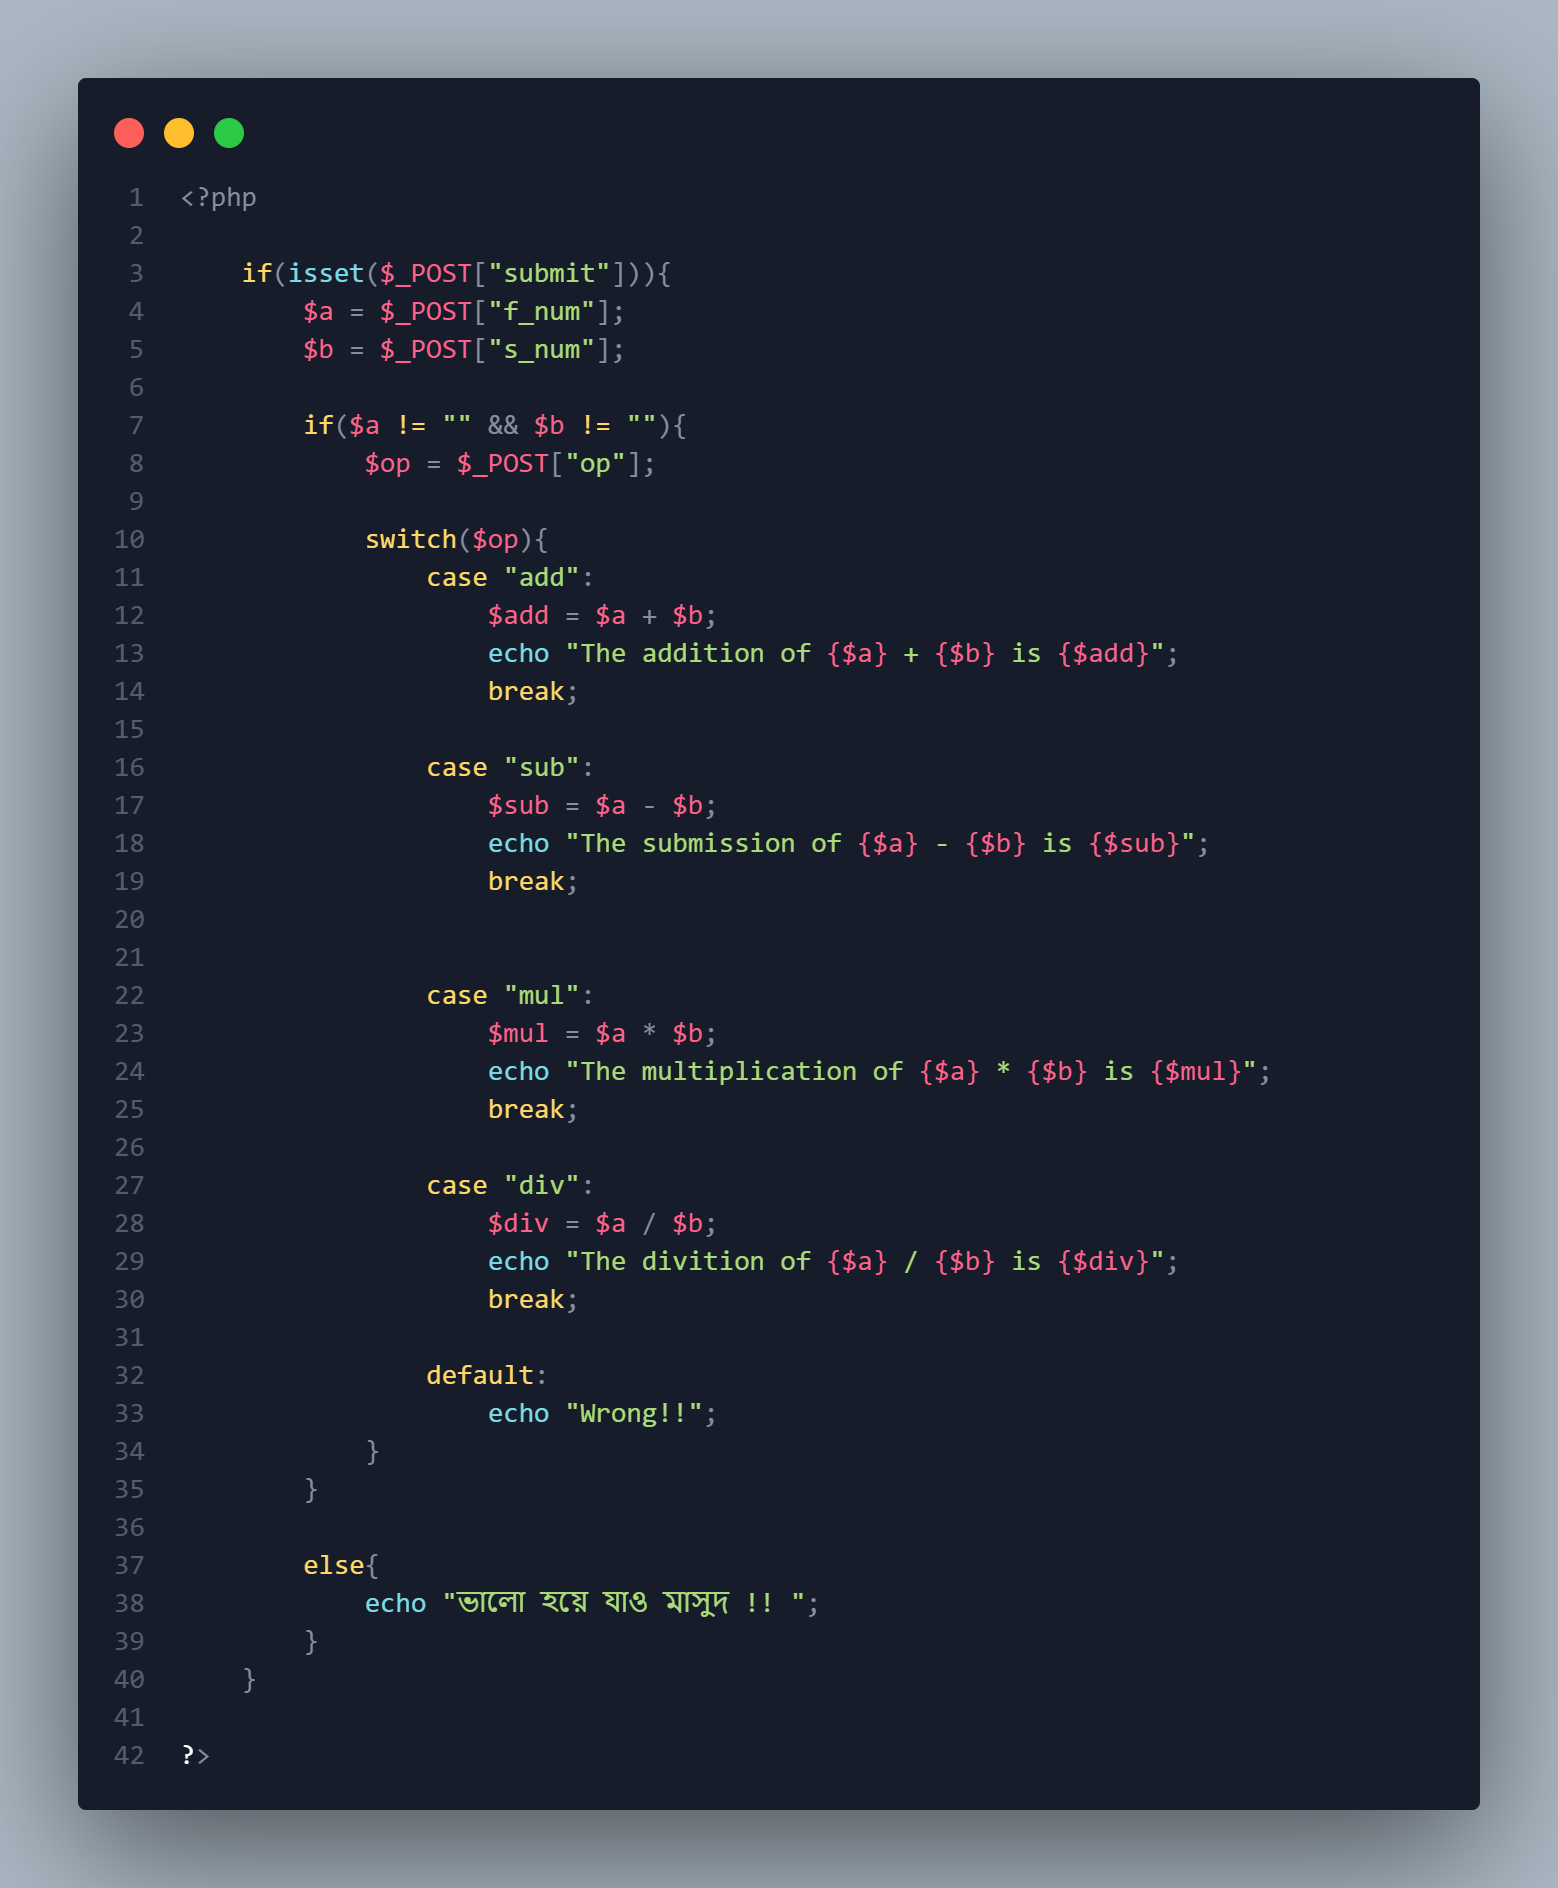
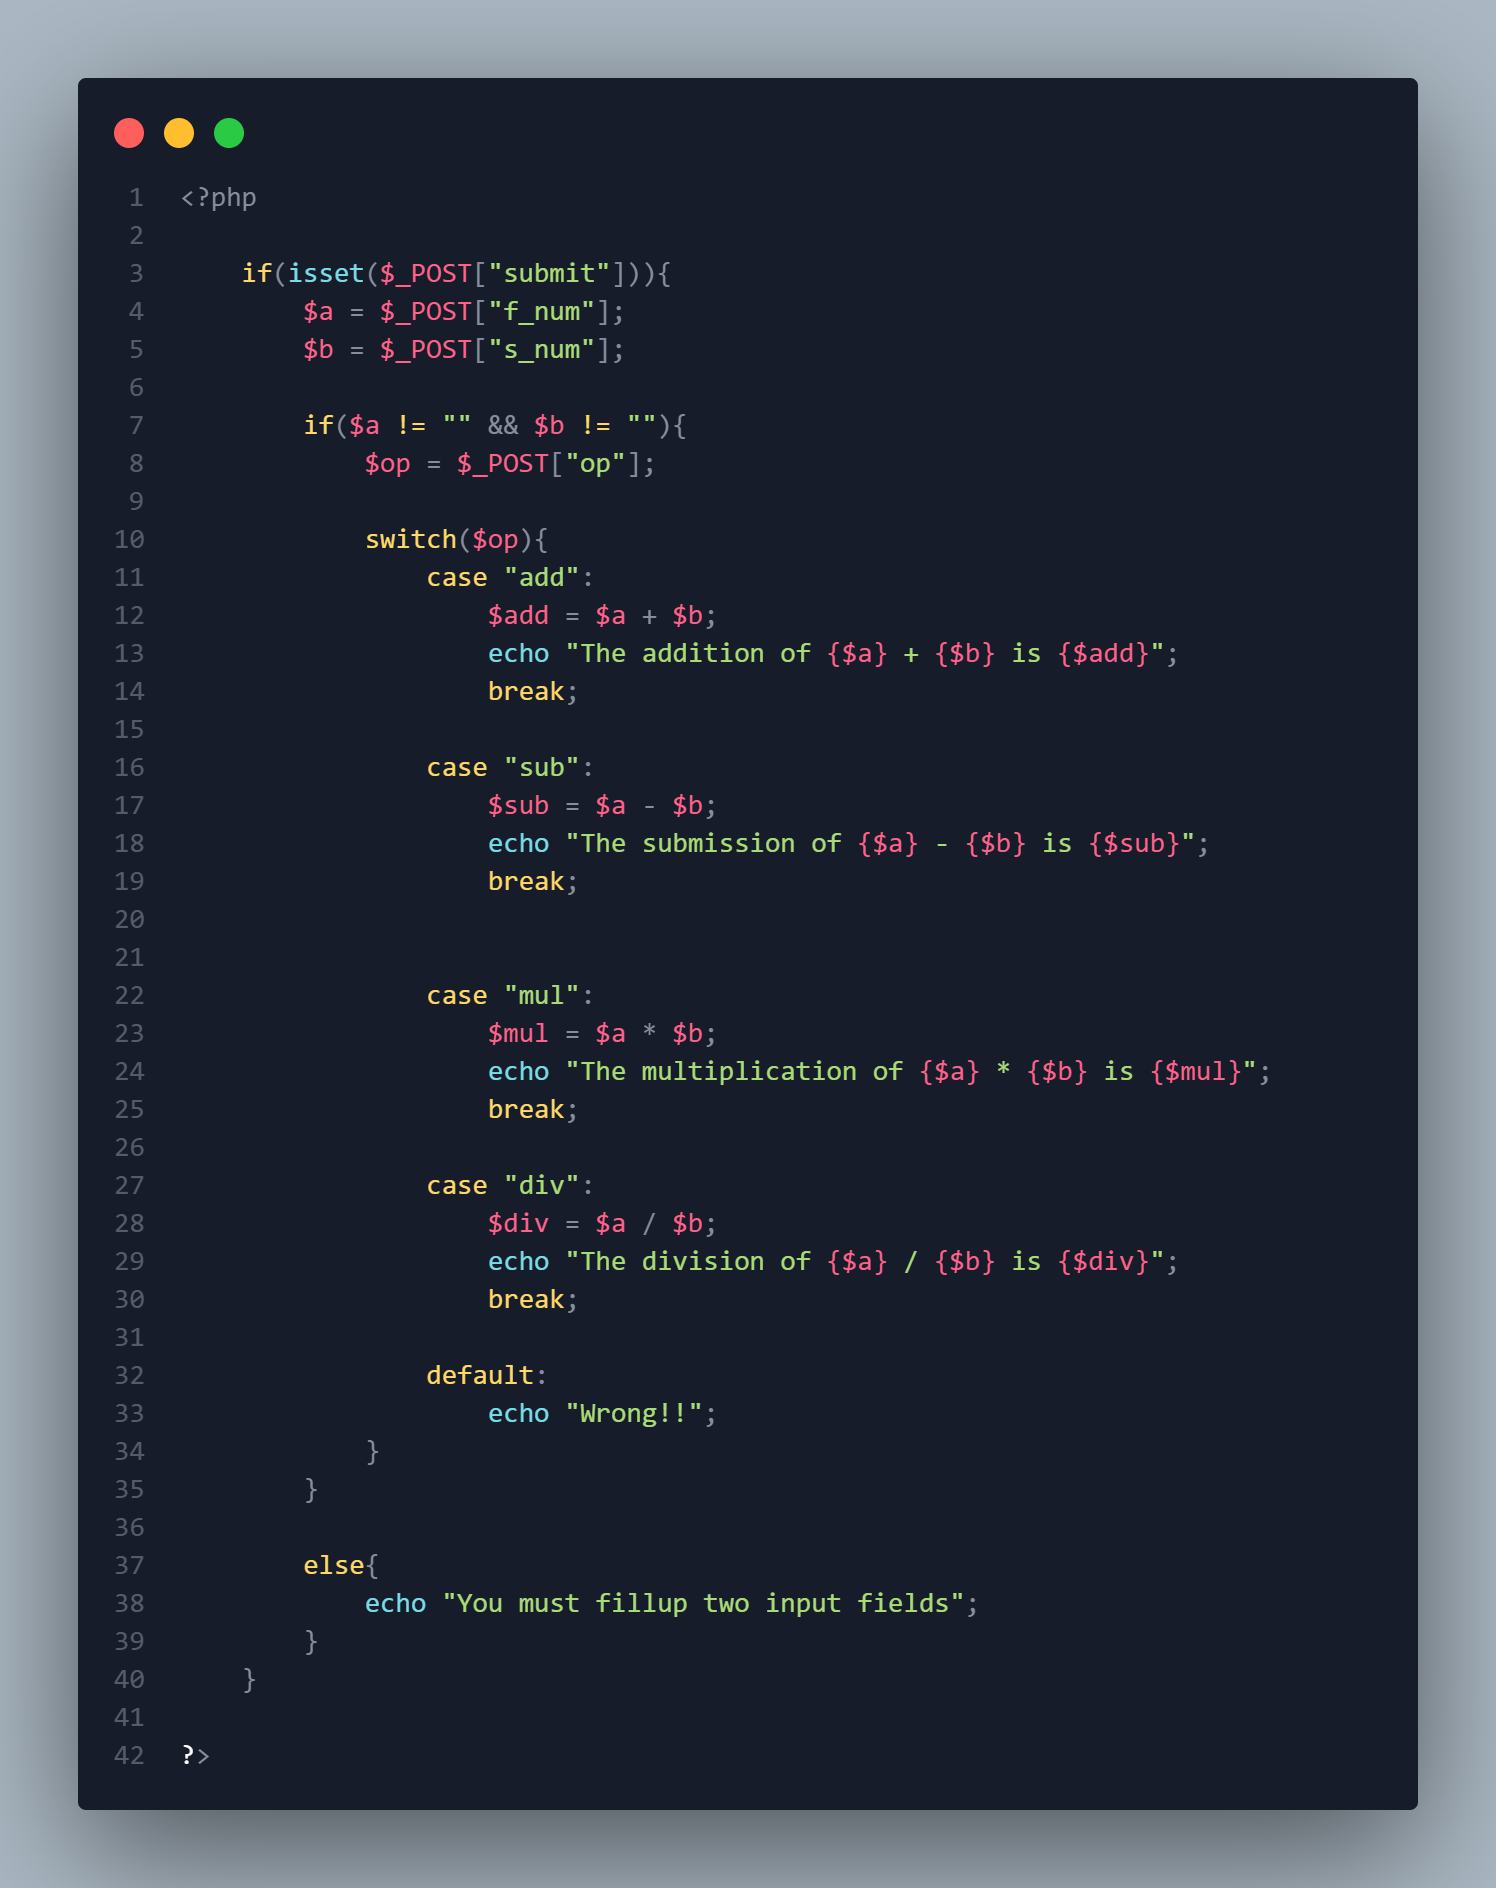
function file update

diff --git a/function.php b/function.php
@@ -35,7 +35,7 @@
         }
 
         else{
-            echo "ভালো হয়ে যাও মাসুদ !! ";
+            echo "You must fillup two input fields";
         }
     }
 
